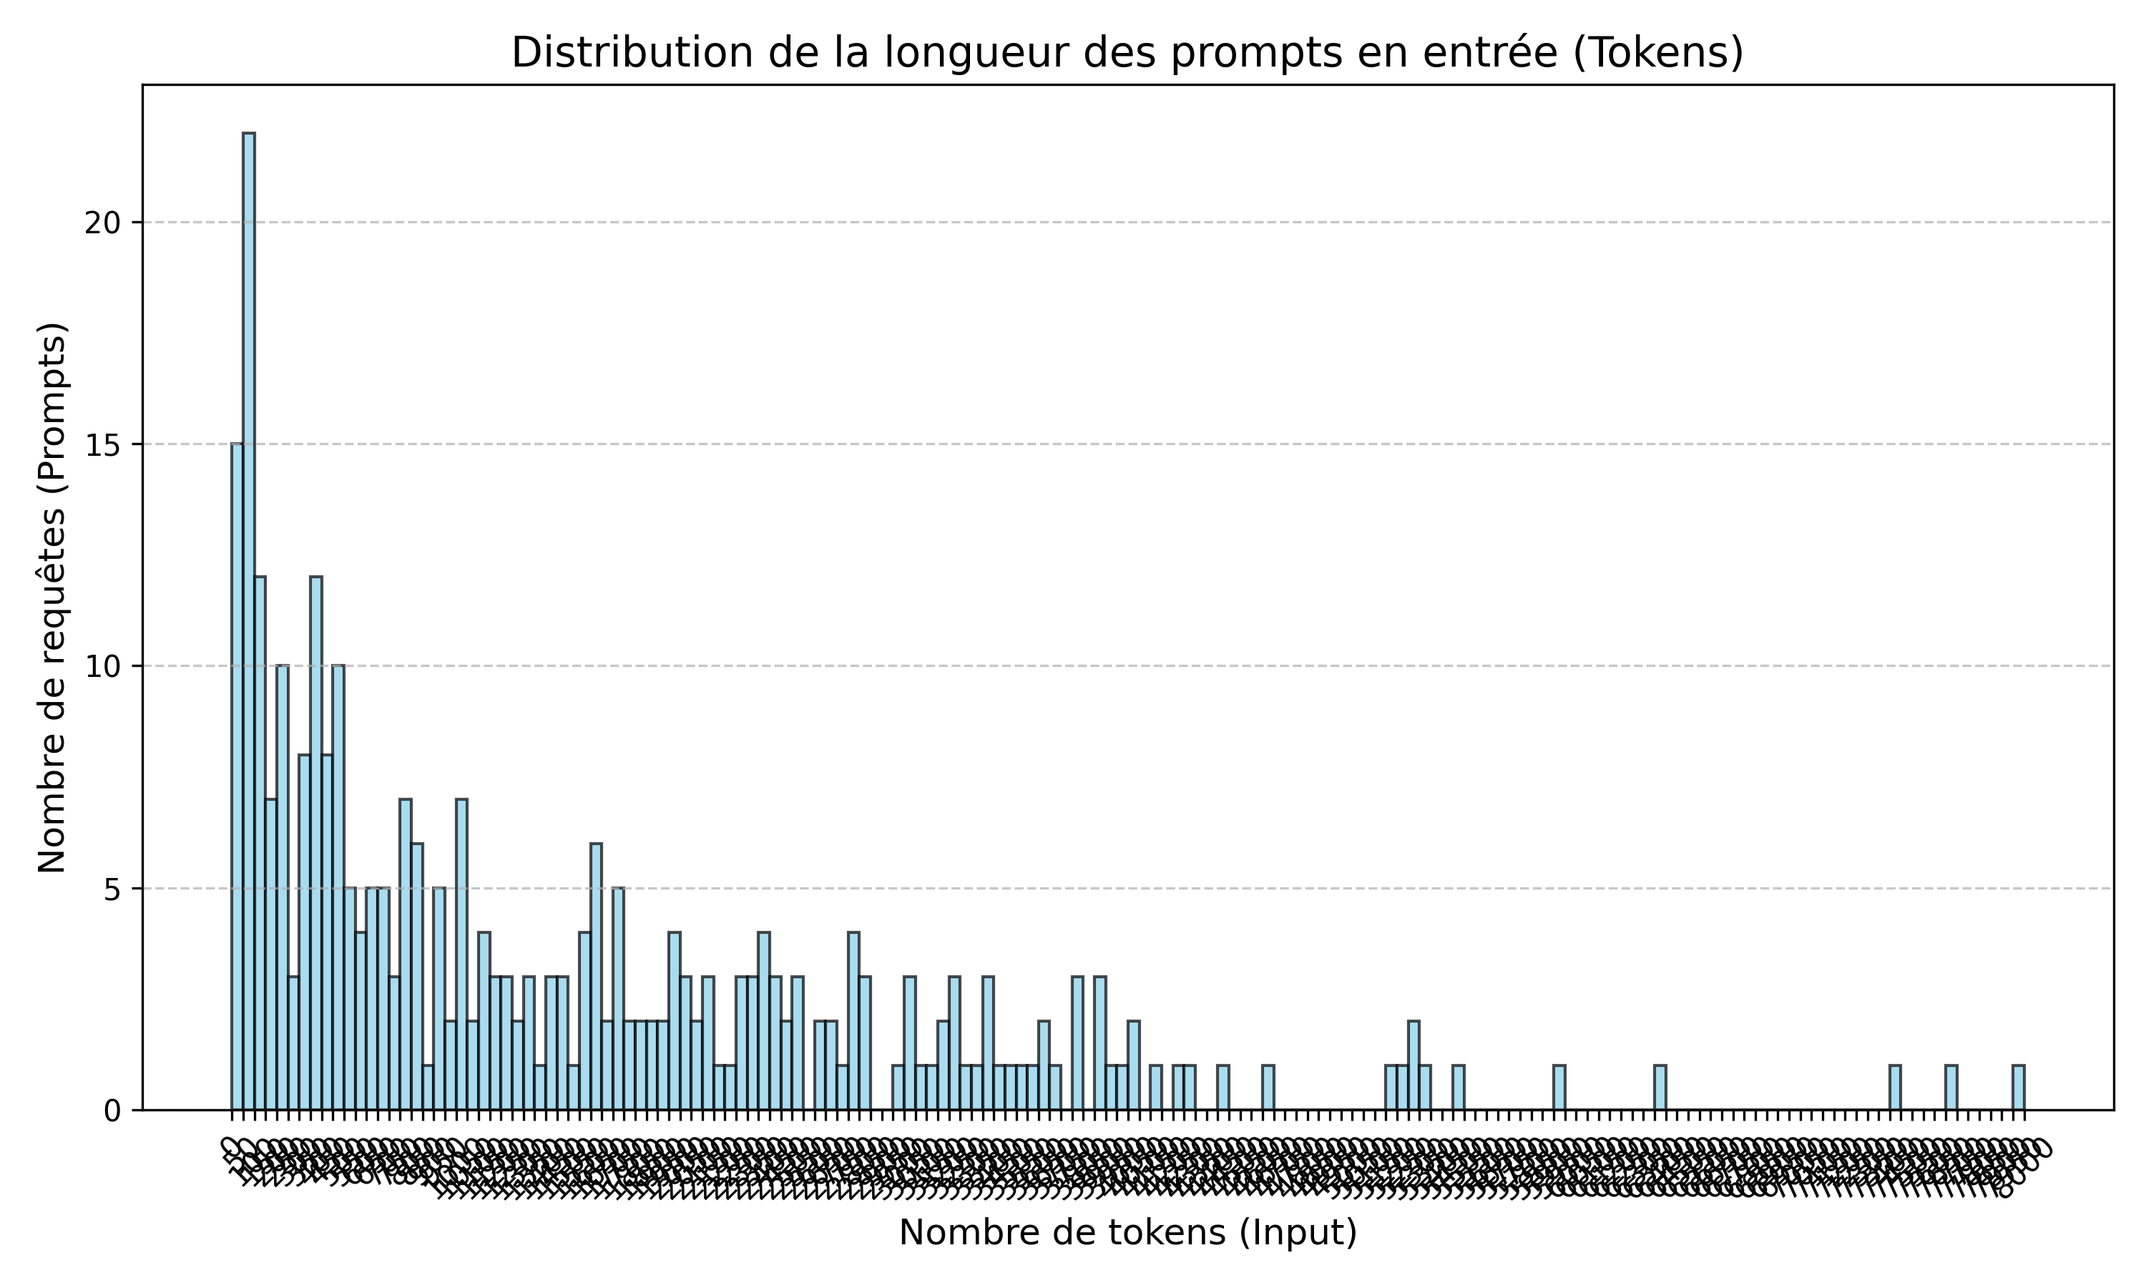
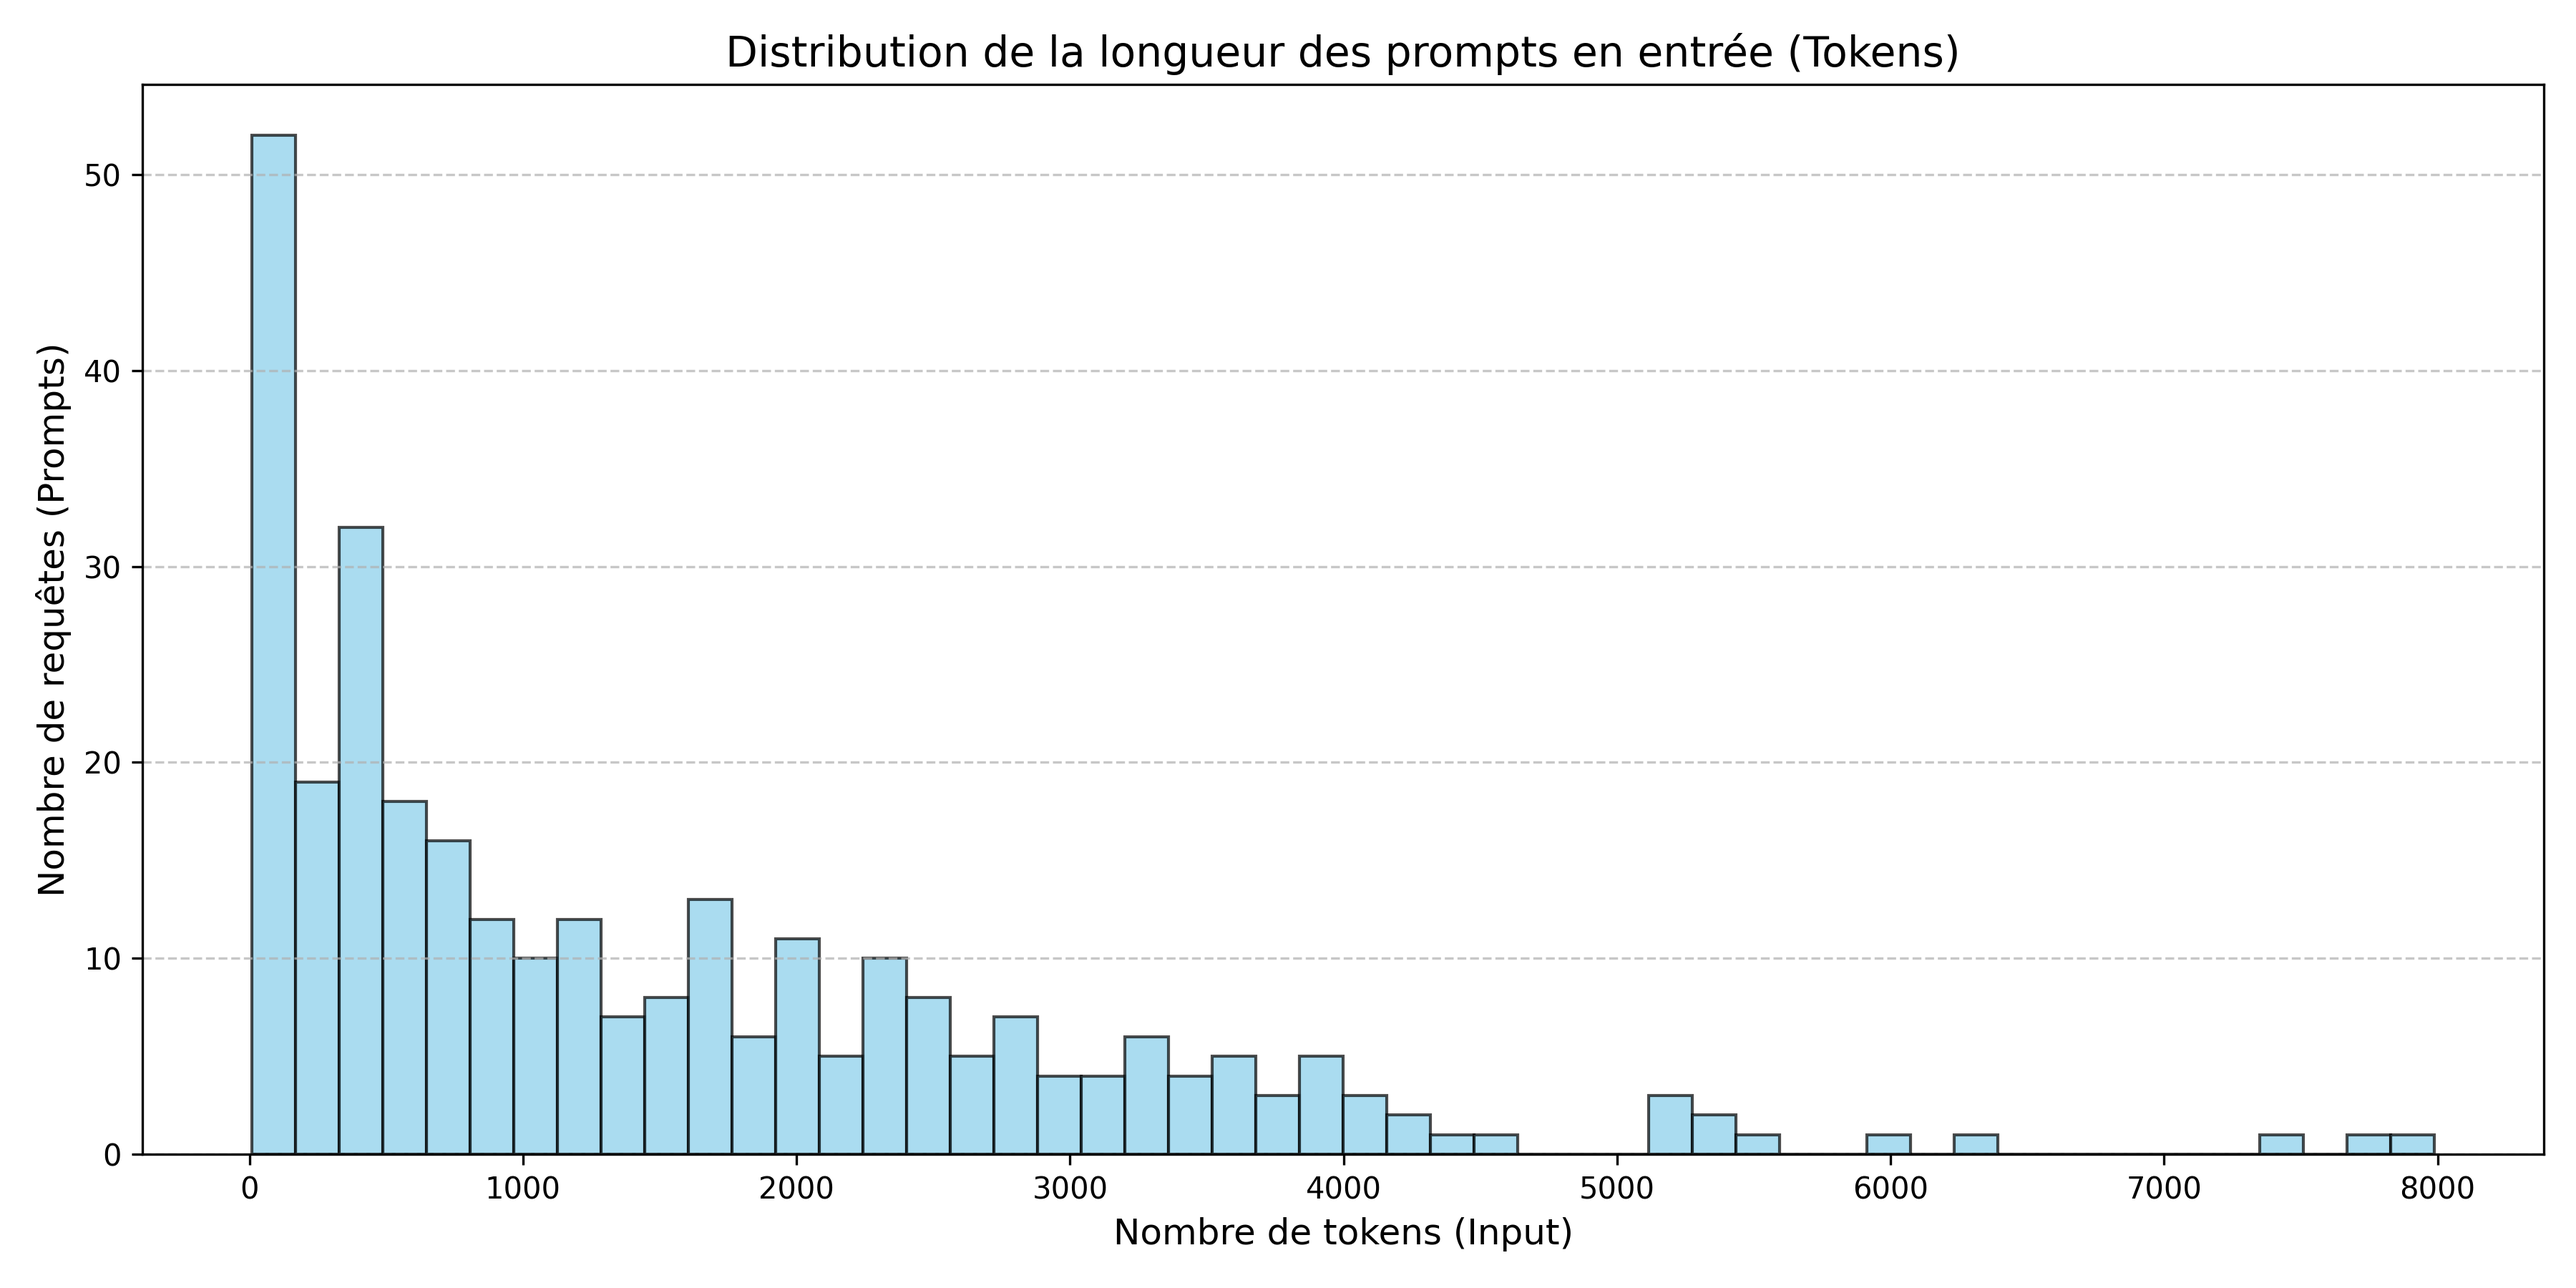
docs: update README with watsonx.ai procedure and fix distribution plots x-axis

diff --git a/plot_distribution.py b/plot_distribution.py
@@ -21,12 +21,10 @@ def plot_distribution(jsonl_file, output_image):
         return
 
     # Configuration du graphique
-    plt.figure(figsize=(10, 6))
+    plt.figure(figsize=(12, 6))
     
-    # bins à intervalles de 50 tokens
-    bins = range(0, max(lengths) + 50, 50)
-    
-    plt.hist(lengths, bins=bins, color='skyblue', edgecolor='black', alpha=0.7)
+    # Utilisation d'un nombre automatique de bins pour l'affichage
+    plt.hist(lengths, bins=50, color='skyblue', edgecolor='black', alpha=0.7)
     
     # Ajout de titres et labels
     plt.title('Distribution de la longueur des prompts en entrée (Tokens)', fontsize=14)
@@ -35,7 +33,6 @@ def plot_distribution(jsonl_file, output_image):
     
     # Ajout de repères
     plt.grid(axis='y', linestyle='--', alpha=0.7)
-    plt.xticks(bins, rotation=45)
     
     # Sauvegarde du graphique
     plt.tight_layout()

diff --git a/README.md b/README.md
@@ -35,6 +35,32 @@ options:
 
 ## Configuration Options
 
+### Running WatsonX.ai Load Tests
+
+A dedicated plugin (`watsonx`) and configuration suite are provided to benchmark `WatsonX.ai` SSE streaming endpoints locally. The suite automatically compares two configured models.
+
+**Procedure:**
+1. **Generate the Dataset**:
+   This extracts a natural 300-prompt distribution from OpenOrca for realistic benchmarking.
+   ```bash
+   uv run generate_mix_dataset.py
+   ```
+
+2. **Configure Endpoints**:
+   Update `tests/watsonx_compare/config_v1.yaml` and `config_v2.yaml` with your `host`, `project_id`, and `local_token` (and `model_id` if assessing different models).
+   *Note: SSL verification is disabled by default in the plugin for local Opneshift instances.*
+
+3. **Run the Comparison**:
+   Execute the automated cross-platform script:
+   ```bash
+   ./tests/watsonx_compare/run_and_compare.sh
+   ```
+   *The tool will natively parse the WatsonX Server-Sent Events (SSE) to print side-by-side terminal summaries of Throughput, TPOT (Time Per Output Token), and TTFT (Time To First Token).*
+
+---
+
+### General Configuration Options
+
 The tool's behavior can be customized using a YAML configuration file. Take a look at `config.yaml` for an example. More documentation on this should be added in the future.
 
 **Results**:
